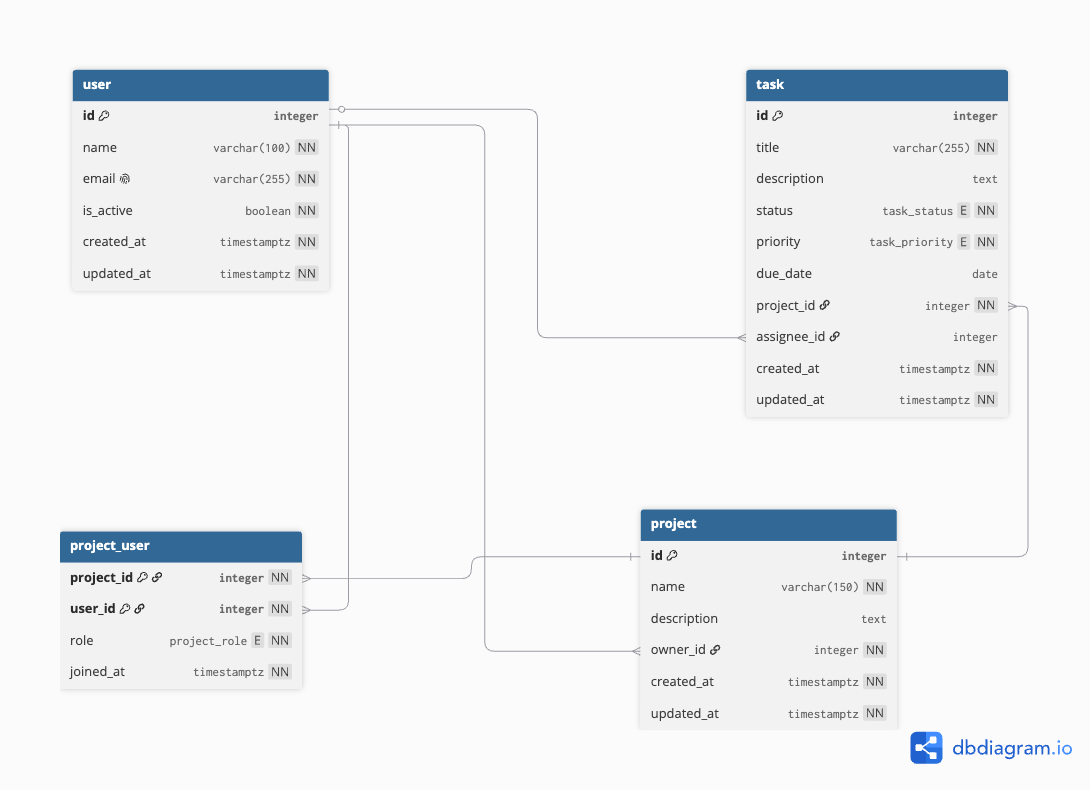
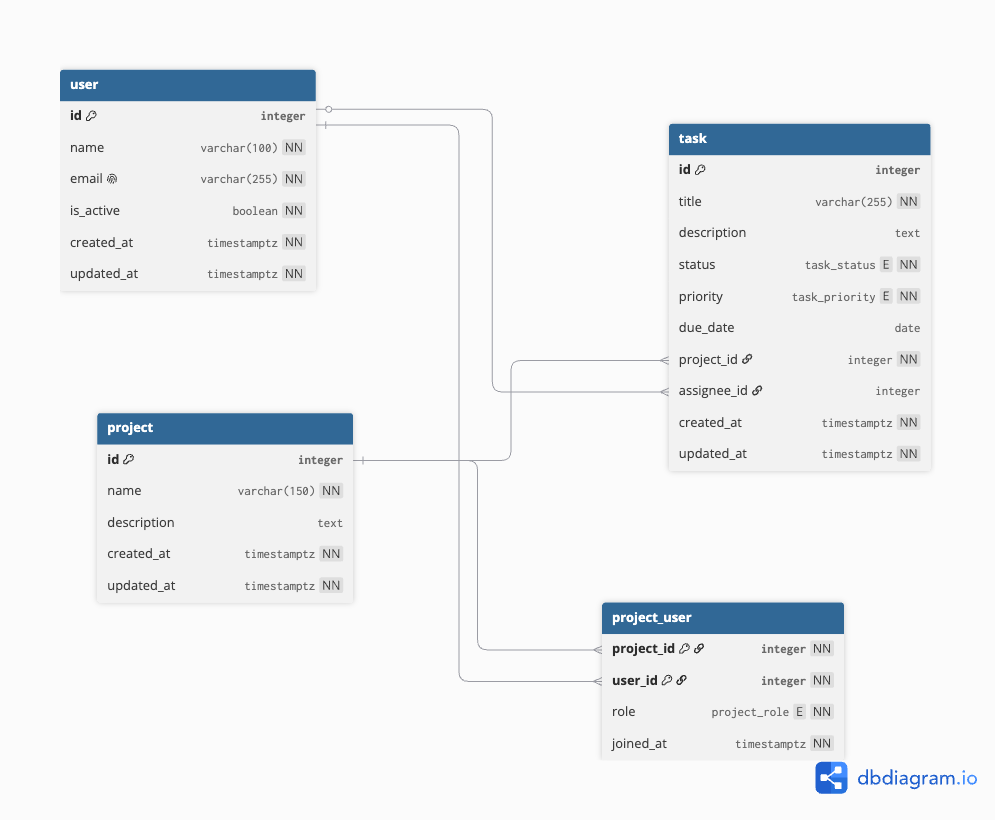
refactor: move project ownership into project_user membership table

diff --git a/session-01-api-design/docs/db/schema-design.md b/session-01-api-design/docs/db/schema-design.md
@@ -13,20 +13,22 @@ so it can be edited and re rendered later.
 
 For this first version we have four tables:
 
-- **user** — people on the team. A user can own projects, be a member of projects, and
-  be assigned tasks.
-- **project** — a table that groups related tasks. Every project has one owner.
+- **user** — people on the team. A user can be a member of projects and be assigned
+  tasks.
+- **project** — a table that groups related tasks.
 - **task** — the actual unit of work. Every task belongs to a project and can optionally
   be assigned to one user.
-- **project_user** — the membership link between users and projects (many to many).
+- **project_user** — the membership link between users and projects (many to many),
+  including ownership.
 
 The relationships are:
 
-- One user owns many projects. Each project has exactly one owner (`project.owner_id`).
 - One project has many tasks. Each task belongs to exactly one project.
 - One user can be assigned many tasks. Each task has at most one assignee (or none).
 - Users and projects have a many to many membership: a user can be on many projects, and
   a project can have many members. This is handled by the `project_user` table.
+- Ownership is represented as a role on that membership, so each project has exactly one
+  member with the `owner` role.
 
 ## Tables
 
@@ -53,14 +55,13 @@ plain `varchar` with a unique constraint for now.
 |-------------|--------------|---------------------------------------------|----------------------------|
 | id          | integer      | PK, auto increment                          | Primary key                |
 | name        | varchar(150) | not null                                    | Project name               |
-| description | text         | nullable                                    | Optional description       |
-| owner_id    | integer      | FK -> user.id, not null, ON DELETE RESTRICT | Every project has an owner |
-| created_at  | timestamptz  | not null, default now()                     | Set on insert              |
-| updated_at  | timestamptz  | not null, default now()                     | Refreshed on update        |
+| description | text         | nullable                                    | Optional description |
+| created_at  | timestamptz  | not null, default now() | Set on insert        |
+| updated_at  | timestamptz  | not null, default now() | Refreshed on update  |
 
-`owner_id` is required — a project can't exist without an owner. The delete rule is
-RESTRICT, which means you can't delete a user while they still own projects. This is
-intentional: it stops us from accidentally orphaning projects by removing one account.
+The project table no longer holds an `owner_id`. Ownership is stored once, as a role on
+the `project_user` membership, so there is a single source of truth for the relationship
+between a user and a project.
 
 ### task
 
@@ -96,7 +97,7 @@ Instead the tasks stay and just become unassigned, so the work isn't lost.
 |------------|--------------|-------------------------|------------------------------------|
 | project_id | integer      | PK, FK -> project.id, ON DELETE CASCADE | Part of composite key  |
 | user_id    | integer      | PK, FK -> user.id, ON DELETE CASCADE    | Part of composite key  |
-| role       | project_role | not null, default 'member' | Enum: admin, member             |
+| role       | project_role | not null, default 'member' | Enum: owner, member             |
 | joined_at  | timestamptz  | not null, default now() | When the user joined the project   |
 
 This is the join table that implements the many to many membership between users and
@@ -108,9 +109,17 @@ membership row is only meaningful while both the user and the project exist, so 
 is deleted the membership row is removed (this deletes only the link, not the user's
 tasks or anything else).
 
+**About ownership.** Ownership lives here as `role = 'owner'` rather than as a separate
+`owner_id` column on `project`, so the user to project relationship has a single source
+of truth and there is nothing to keep synchronised when ownership changes.
 
-**About the owner and membership.** The project owner (`project.owner_id`) is also a
-member of the project. When a project is created, the owner should be added to
-`project_user` with role `admin`. — `owner_id` records the single lead, while `project_user` records full team
-membership including the owner.
+To keep the "one owner per project" guarantee, the migration should add a partial unique
+index:
 
+```sql
+CREATE UNIQUE INDEX one_owner_per_project
+  ON project_user (project_id)
+  WHERE role = 'owner';
+```
+
+**About roles.** For now I've collapsed ownership and admin into a single `owner` role, since in practice the same person does both.
